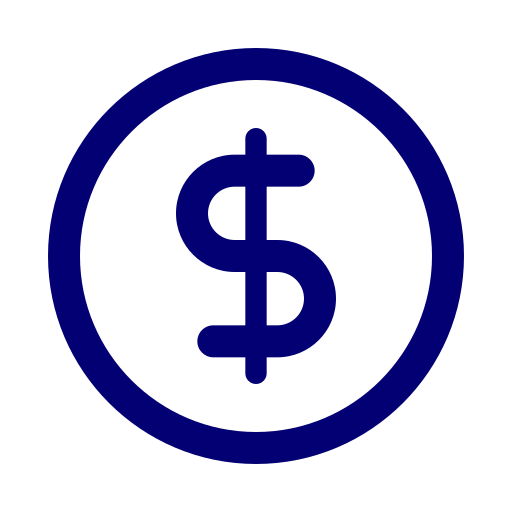
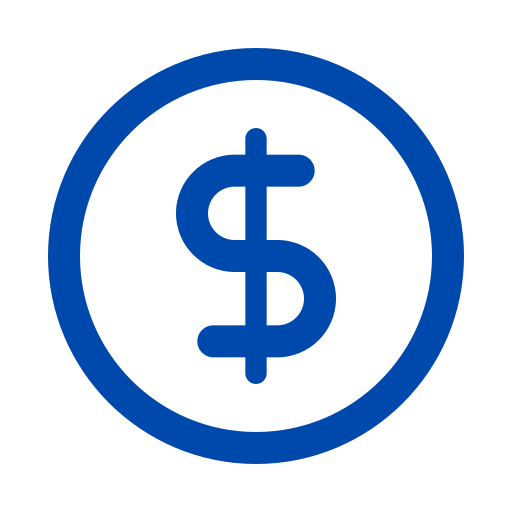
panel y ver pagos

Changed region(s): [[0.0938, 0.0938, 0.9062, 0.9062], [0.3438, 0.25, 0.6562, 0.75]]

diff --git a/panel.css b/panel.css
@@ -19,19 +19,18 @@ body {
     display: flex;
 }
 
-/* Sidebar */
 .sideBar {
     width: 300px;
+    min-width: 300px; /* Asegura el ancho mínimo */
+    flex-shrink: 0;   /* EVITA QUE SE ACHIQUE cuando las tablas o contenidos crecen */
     min-height: 100vh;
     padding: 20px 15px;
     background: #b8d46ed4;
     display: flex;
     flex-direction: column;
 }
-
 .sideBar .logo {
-    margin: 20px 0 25px;
-    text-align: center;
+    margin: 40px 0 25px;
 }
 
 .sideBar .logo img {
@@ -57,7 +56,7 @@ body {
     border: none;
     color: #0049ac;
     font-family: 'Tamrin', sans-serif;
-    font-size: 0.90rem;
+    font-size: 0.85rem;
     text-align: left;
     cursor: pointer;
     border-radius: 8px;
@@ -114,8 +113,19 @@ body {
     color: #a9cd46;
 }
 
+.valor-icono {
+    display: flex;
+    align-items: center;
+    gap: 8px;
+    margin-bottom: 8px;
+}
+
+.valor-icono img {
+    width: 15%;
+}
+
 .listados {
-    margin-top: 15%;
+    margin-top: 10%;
     width: 100%;
     display: flex;
     gap: 20px;
@@ -138,9 +148,7 @@ body {
     margin-bottom: 15px;
 }
 
-.listado-header h4,
-.item-email,
-.ver-todos {
+.listado-header h4, .item-email, .ver-todos {
     color: #a9cd46;
 }
 
@@ -160,26 +168,32 @@ body {
     text-decoration: underline;
 }
 
-/* Sección Pagos */
+/* Sección Pagos (Estilo idéntico a Cooperadora Actual) */
 #verPagos.pagos-card {
+    opacity: 1;
     width: 100%;
-    min-height: 480px;
-    margin: auto 0;
+    max-width: 1050px;
+    margin: auto;
     padding: 20px 25px;
     color: #a9cd46;
     background: #0049acd4;
     border-radius: 10px;
+    box-sizing: border-box;
+}
+
+#verPagos.pagos-card.activo {
+    display: flex;
+    flex-direction: column;
 }
 
 .pagos-header {
-    display: grid;
-    grid-template-columns: 1fr auto 1fr;
+    display: flex;
+    justify-content: center;
     align-items: center;
     margin-bottom: 15px;
 }
 
 .titulo-pagos {
-    grid-column: 2;
     color: #a9cd46;
     font-size: 18px;
     font-weight: normal;
@@ -192,7 +206,6 @@ body {
 }
 
 .tabla-pagos {
-    min-width: 850px;
     width: 100%;
     margin-top: 10px;
     border-collapse: collapse;
@@ -204,12 +217,26 @@ body {
     padding: 16px 10px;
     border: 2px solid #a9cd46;
     text-align: center;
-}
-
-.tabla-pagos th {
+    vertical-align: middle;
     font-size: 15px;
 }
 
+.tabla-pagos th {
+    font-weight: normal;
+}
+
+/* Vista previa del Comprobante */
+.tabla-pagos td img,
+.tabla-pagos .comprobante-preview {
+    width: 45px;
+    height: 45px;
+    object-fit: cover;
+    border-radius: 4px;
+    display: block;
+    margin: 0 auto;
+}
+
+/* Selector del Estado */
 .tabla-pagos select.estado {
     padding: 5px 8px;
     color: #a9cd46;
@@ -217,6 +244,32 @@ body {
     border: 1px solid #a9cd46;
     border-radius: 4px;
     font-family: 'Tamrin', sans-serif;
+    font-size: 14px;
+    cursor: pointer;
+    outline: none;
+}
+
+.tabla-pagos select.estado option {
+    background: #0049ac;
+    color: #a9cd46;
+}
+
+/* Selector/Dropdown del Estado (Pendiente, Aprobado, etc.) */
+.tabla-pagos select.estado {
+    padding: 6px 12px;
+    color: #a9cd46;
+    background: #0049acd4;
+    border: 1px solid #a9cd46;
+    border-radius: 4px;
+    font-family: 'Tamrin', sans-serif;
+    font-size: 14px;
+    cursor: pointer;
+    outline: none;
+}
+
+.tabla-pagos select.estado option {
+    background: #0049ac;
+    color: #a9cd46;
 }
 
 /* SECCIÓN COOPERADORA */

diff --git a/panel.js b/panel.js
@@ -66,7 +66,7 @@ function cargarInicio() {
             body: JSON.stringify({ recurso: 'monto', consulta: 'Read'})
         }).then(response => response.json()) ])
         .then(([usuarios, carreras, montos]) => {
-            // cuenta los cocios alumnos y voluntarios
+            // cuenta los socios alumnos y voluntarios
             let alumnos = 0; 
             let voluntarios = 0;
 
@@ -408,7 +408,11 @@ function cargarPagos() {
         data.forEach(pago => { //recorre data
             const fila = document.createElement('tr'); //crea una nueva fila por cada elemento
 
-            // comprobante
+            let comprobanteHTML = 'Sin archivo';
+            if (pago.foto) {
+                const srcFoto = pago.foto.startsWith('data:') ? pago.foto : `uploads/${pago.foto}`;
+                comprobanteHTML = `<a href="${srcFoto}" target="_blank"><img src="${srcFoto}" alt="Comprobante" style="width: 40px; height: 40px; object-fit: cover; border-radius: 4px;"></a>`;
+            }
 
             const idEstadoActual = parseInt(pago.id_estado); // obtiene id del estado y lo convierte a entero para comprarlo
             const estadoSelect = `
@@ -425,8 +429,8 @@ function cargarPagos() {
                 <td>${escapeHtml(pago.fecha || '-')}</td>
                 <td>${escapeHtml(pago.nombre_completo || '-')}</td>
                 <td>$${escapeHtml(pago.importe || '0')}</td>
-                <td>${scapeHtml(comprobante)}</td>
-                <td>${echo ("holis")}</td>
+                <td>${comprobanteHTML}</td>
+                <td>${estadoSelect}</td>
                 <td>${escapeHtml(pago.tipo_socio || '-')}</td>
                 <td>${escapeHtml(pago.carrera || '-')}</td>
             `;
@@ -445,7 +449,7 @@ function cambiarEstadoPago(idPago, idEstado) {
         method: 'POST',
         headers: { 'Content-Type': 'application/json' },
         body: JSON.stringify({ recurso: 'registroPagos', consulta: 'Update',
-            id_pago: parseInt(idPago), estado: parseInt(idEstado) //convierte los valores a enteros
+            id_pago: parseInt(idPago), id_estado: parseInt(idEstado) //convierte los valores a enteros
         })
     })
     .then(res => res.json()) // convierte la respuesta

diff --git a/panel.php b/panel.php
@@ -12,17 +12,19 @@
         <!-- Sidebar -->
         <aside class="sideBar">
             <div class="logo">
-                <img src="iconos/logo.jpg" alt="Logo">
+                <a href="inicio.php">
+                    <img src="iconos/logo.jpg" alt="Logo">
+                </a>
             </div>
             <nav>
-                <button onclick="mostrar('inicio')"><img src="iconos/inicio.png" alt="Inicio" style = "width: 17.5%">Inicio</button>
-                <button onclick="mostrar('sociosAlumnos'); cargarAlumnos()"><img src="iconos/usuario-azul.png" alt="Usuario" style= "width: 19%">Socios alumnos</button>
-                <button onclick="mostrar('sociosVoluntarios'); cargarVoluntarios()"><img src="iconos/usuario-azul.png" alt="Usuario" style= "width: 19%">Socios voluntarios</button>
+                <button onclick="mostrar('inicio')"><img src="iconos/proximo.png" alt="" style = "width: 19%">Inicio</button>
+                <button onclick="mostrar('sociosAlumnos'); cargarAlumnos()"><img src="iconos/usuario-azul.png" alt="Usuario" style= "width: 17%">Socios alumnos</button>
+                <button onclick="mostrar('sociosVoluntarios'); cargarVoluntarios()"><img src="iconos/usuario-azul.png" alt="Usuario" style= "width: 17%">Socios voluntarios</button>
                 <button onclick="mostrar('carreras')"><img src="iconos/graduacion.png" alt="Carreras" style= "width: 18%">Carreras</button>
                 <button onclick="mostrar('cooperadora')"><img src="iconos/dinero.png" alt="Cooperadora" style= "width: 18%">Cooperadora actual</button>
                 <button onclick="mostrar('verPagos')"><img src="iconos/dinero.png" alt="Pagos" style= "width: 18%">Ver pagos</button>
                 <button onclick="mostrar('graficos')"><img src="iconos/graficos.png" alt="Gráficos" style= "width: 18%">Gráficos</button>
-                <button onclick="mostrar('descargarDatos')"><img src="iconos/descargarDatos.png" alt="Descargar" style= "width: 18%">Descargar datos</button>
+                <button onclick="mostrar('descargarDatos')"><img src="iconos/descargarDatos.png" alt="Descargar" style= "width: 17%">Descargar datos</button>
             </nav>
         </aside>
 
@@ -32,29 +34,44 @@
             <div id="inicio" class="formulario activo tarjeta">
                 <div class="cards">
                     <div class="card-chica">
-                        <div id = "cantAlumnos" class="card-numero"></div> Socio alumnos
+                        <div class="valor-icono">
+                            <img src="iconos/usuario-verde.png" alt="usuario">
+                            <div id="cantAlumnos" class="card-numero"></div>
+                        </div>
+                        Socio alumnos
                     </div>
 
                     <div class="card-chica">
-                        <div id = "cantVoluntarios" class="card-numero"></div> Socio voluntarios
+                        <div class="valor-icono">
+                            <img src="iconos/usuario-verde.png" alt="usuario">
+                            <div id="cantVoluntarios" class="card-numero"></div>
+                        </div>
+                        Socio voluntarios
                     </div>
 
                     <div class="card-chica">
-                        <div id = "cantCarreras" class="card-numero"></div> Carreras
+                        <div class="valor-icono">
+                            <img src="iconos/graduacion-verde.png" alt="carreras">
+                            <div id="cantCarreras" class="card-numero"></div>
+                        </div>
+                        Carreras
                     </div>
 
                     <div class="card-chica">
-                        <div id = "montoActual" class="card-numero"></div> Cooperadora actual
+                        <div class="valor-icono">
+                            <img src="iconos/dinero-verde.png" alt="dinero">
+                            <div id="montoActual" class="card-numero"></div>
+                        </div>
+                        Cooperadora actual
                     </div>
                 </div>
-                
                 <div class="listados">
                     <div class="card-listado">
                         <div class="listado-header">
                             <h4>Socio alumno</h4>
                             <button class="ver-todos" onclick="mostrar('sociosAlumnos')">Ver todos</button>
                         </div>
-                        <div class="listado-item">
+                        <div class="listado-item" id="socAlumno">
                             <span class="item-email">nombre@gmail.com</span>
                         </div>
                     </div>
@@ -63,7 +80,7 @@
                             <h4>Socio voluntario</h4>
                             <button class="ver-todos" onclick="mostrar('sociosVoluntarios')">Ver todos</button>
                         </div>
-                        <div class="listado-item">
+                        <div class="listado-item" id="socVoluntario">
                             <span class="item-email">nombre@gmail.com</span>
                         </div>
                     </div>
